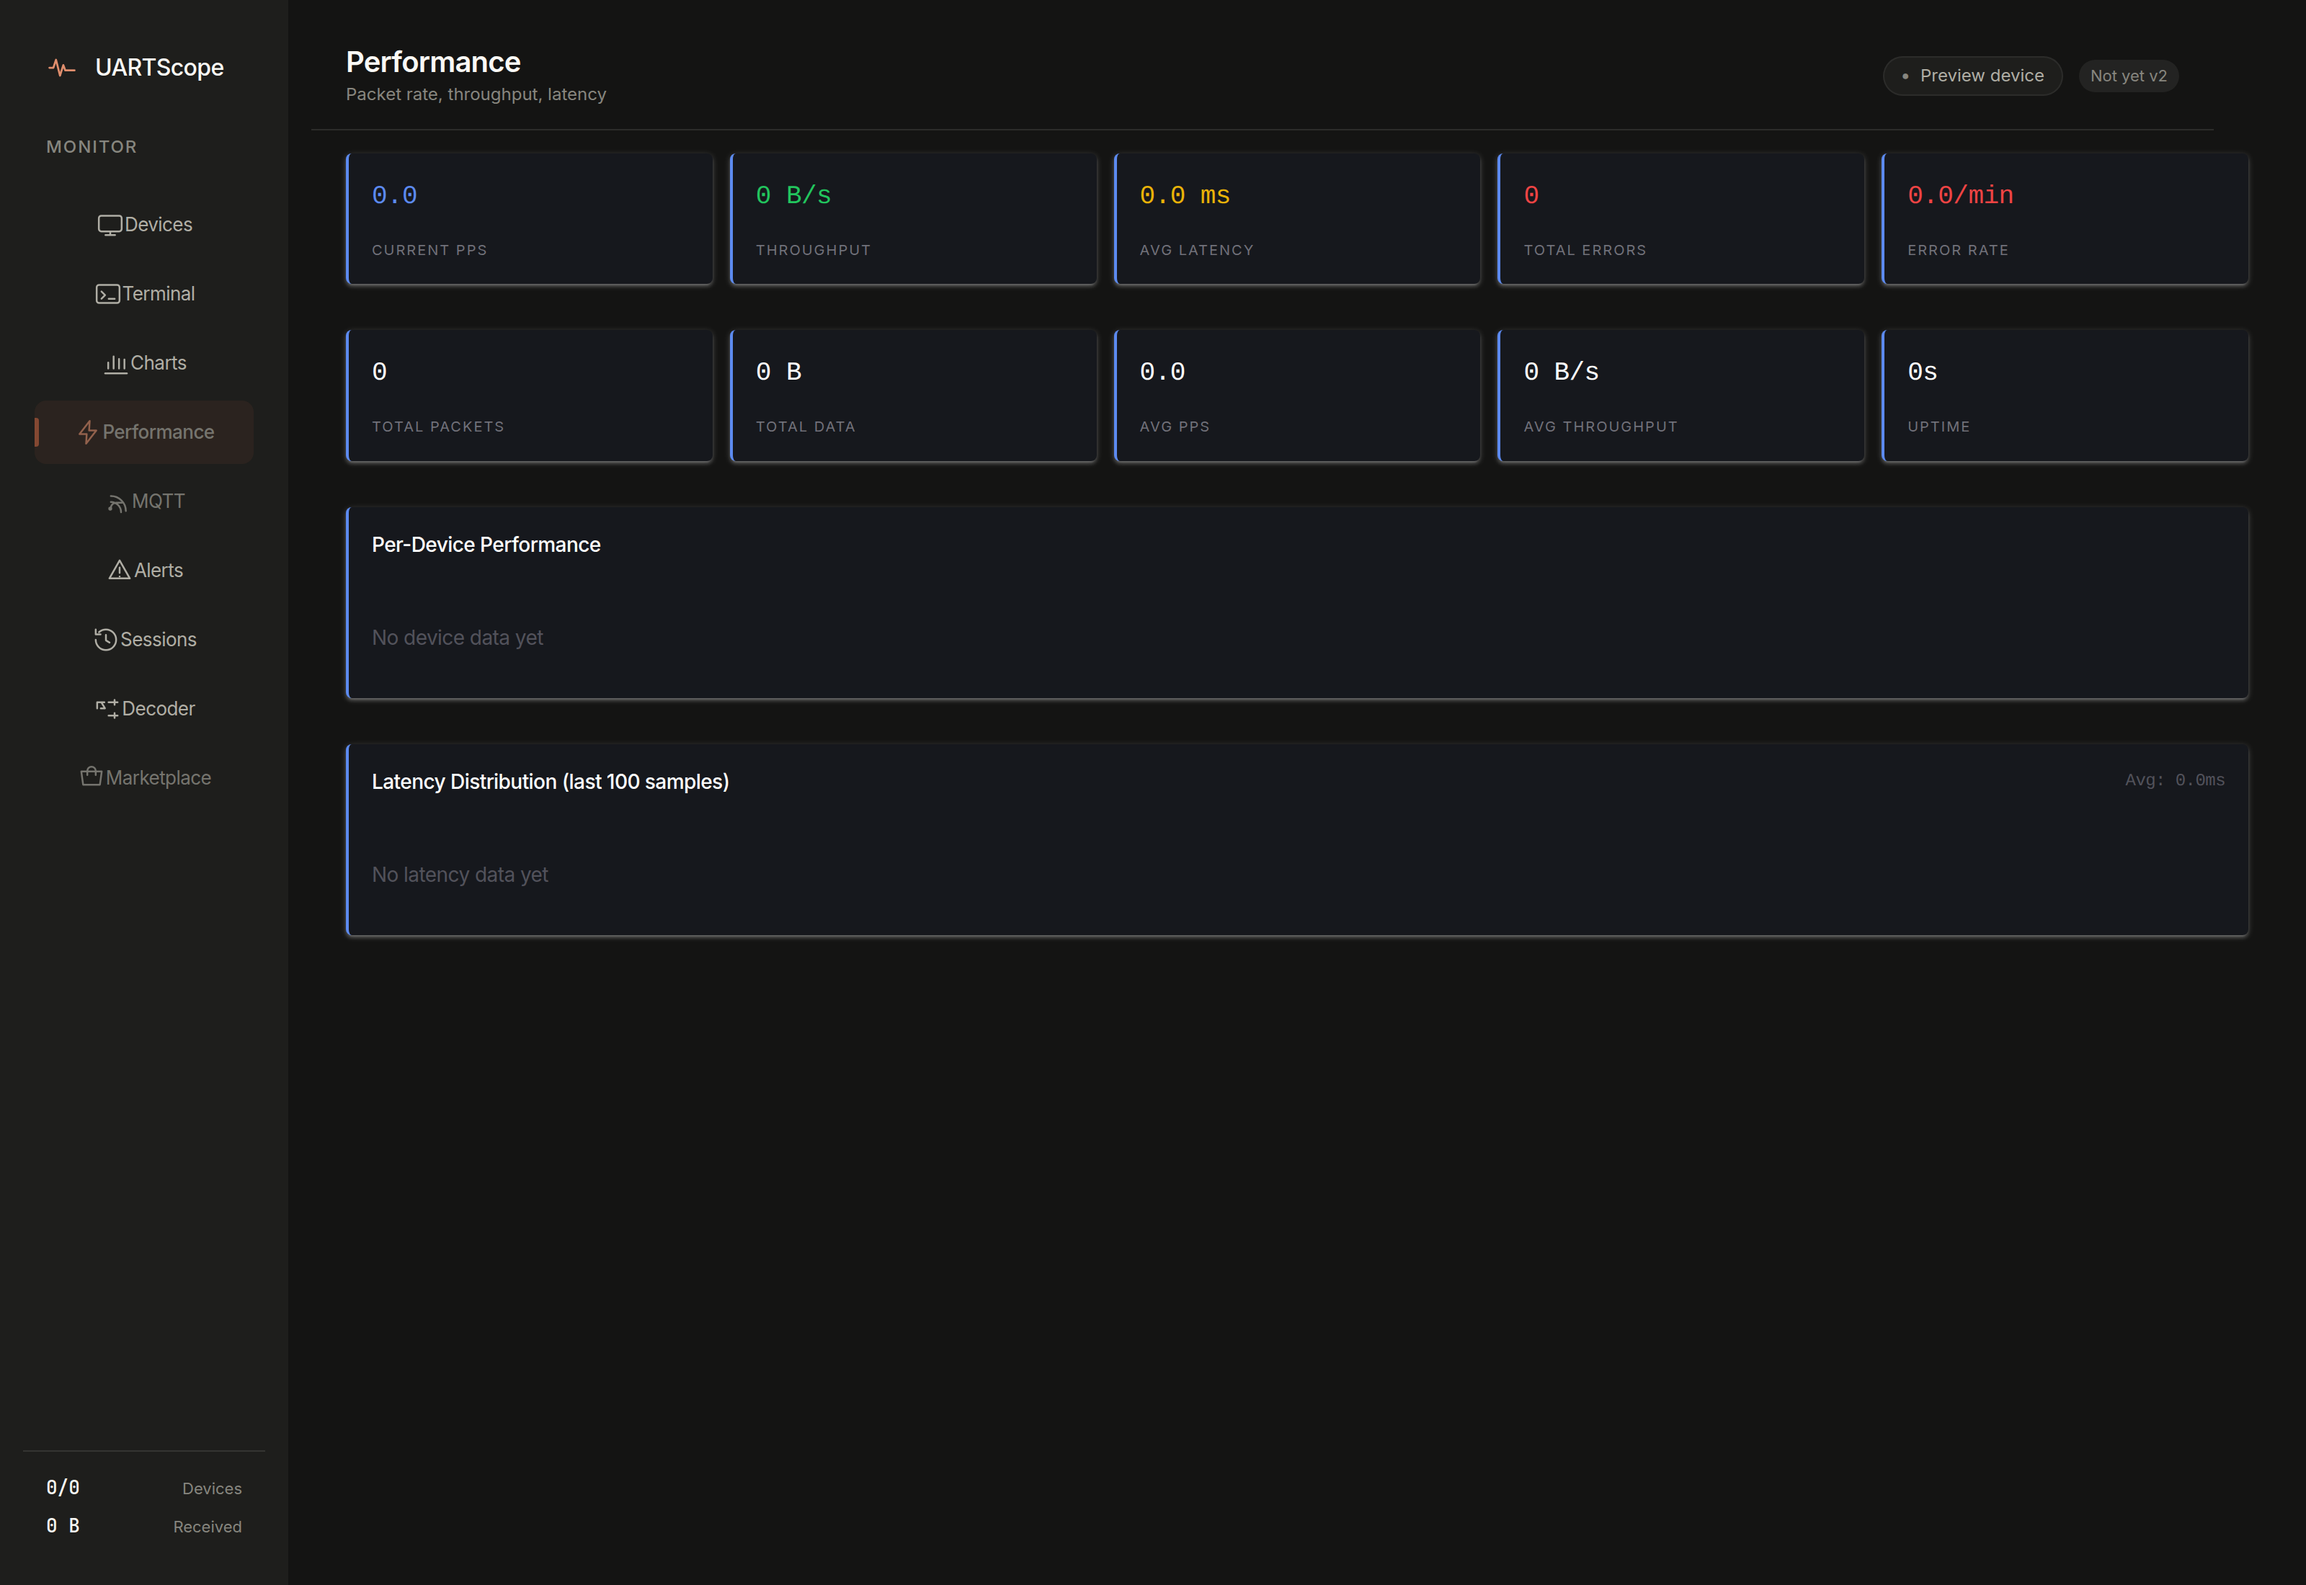
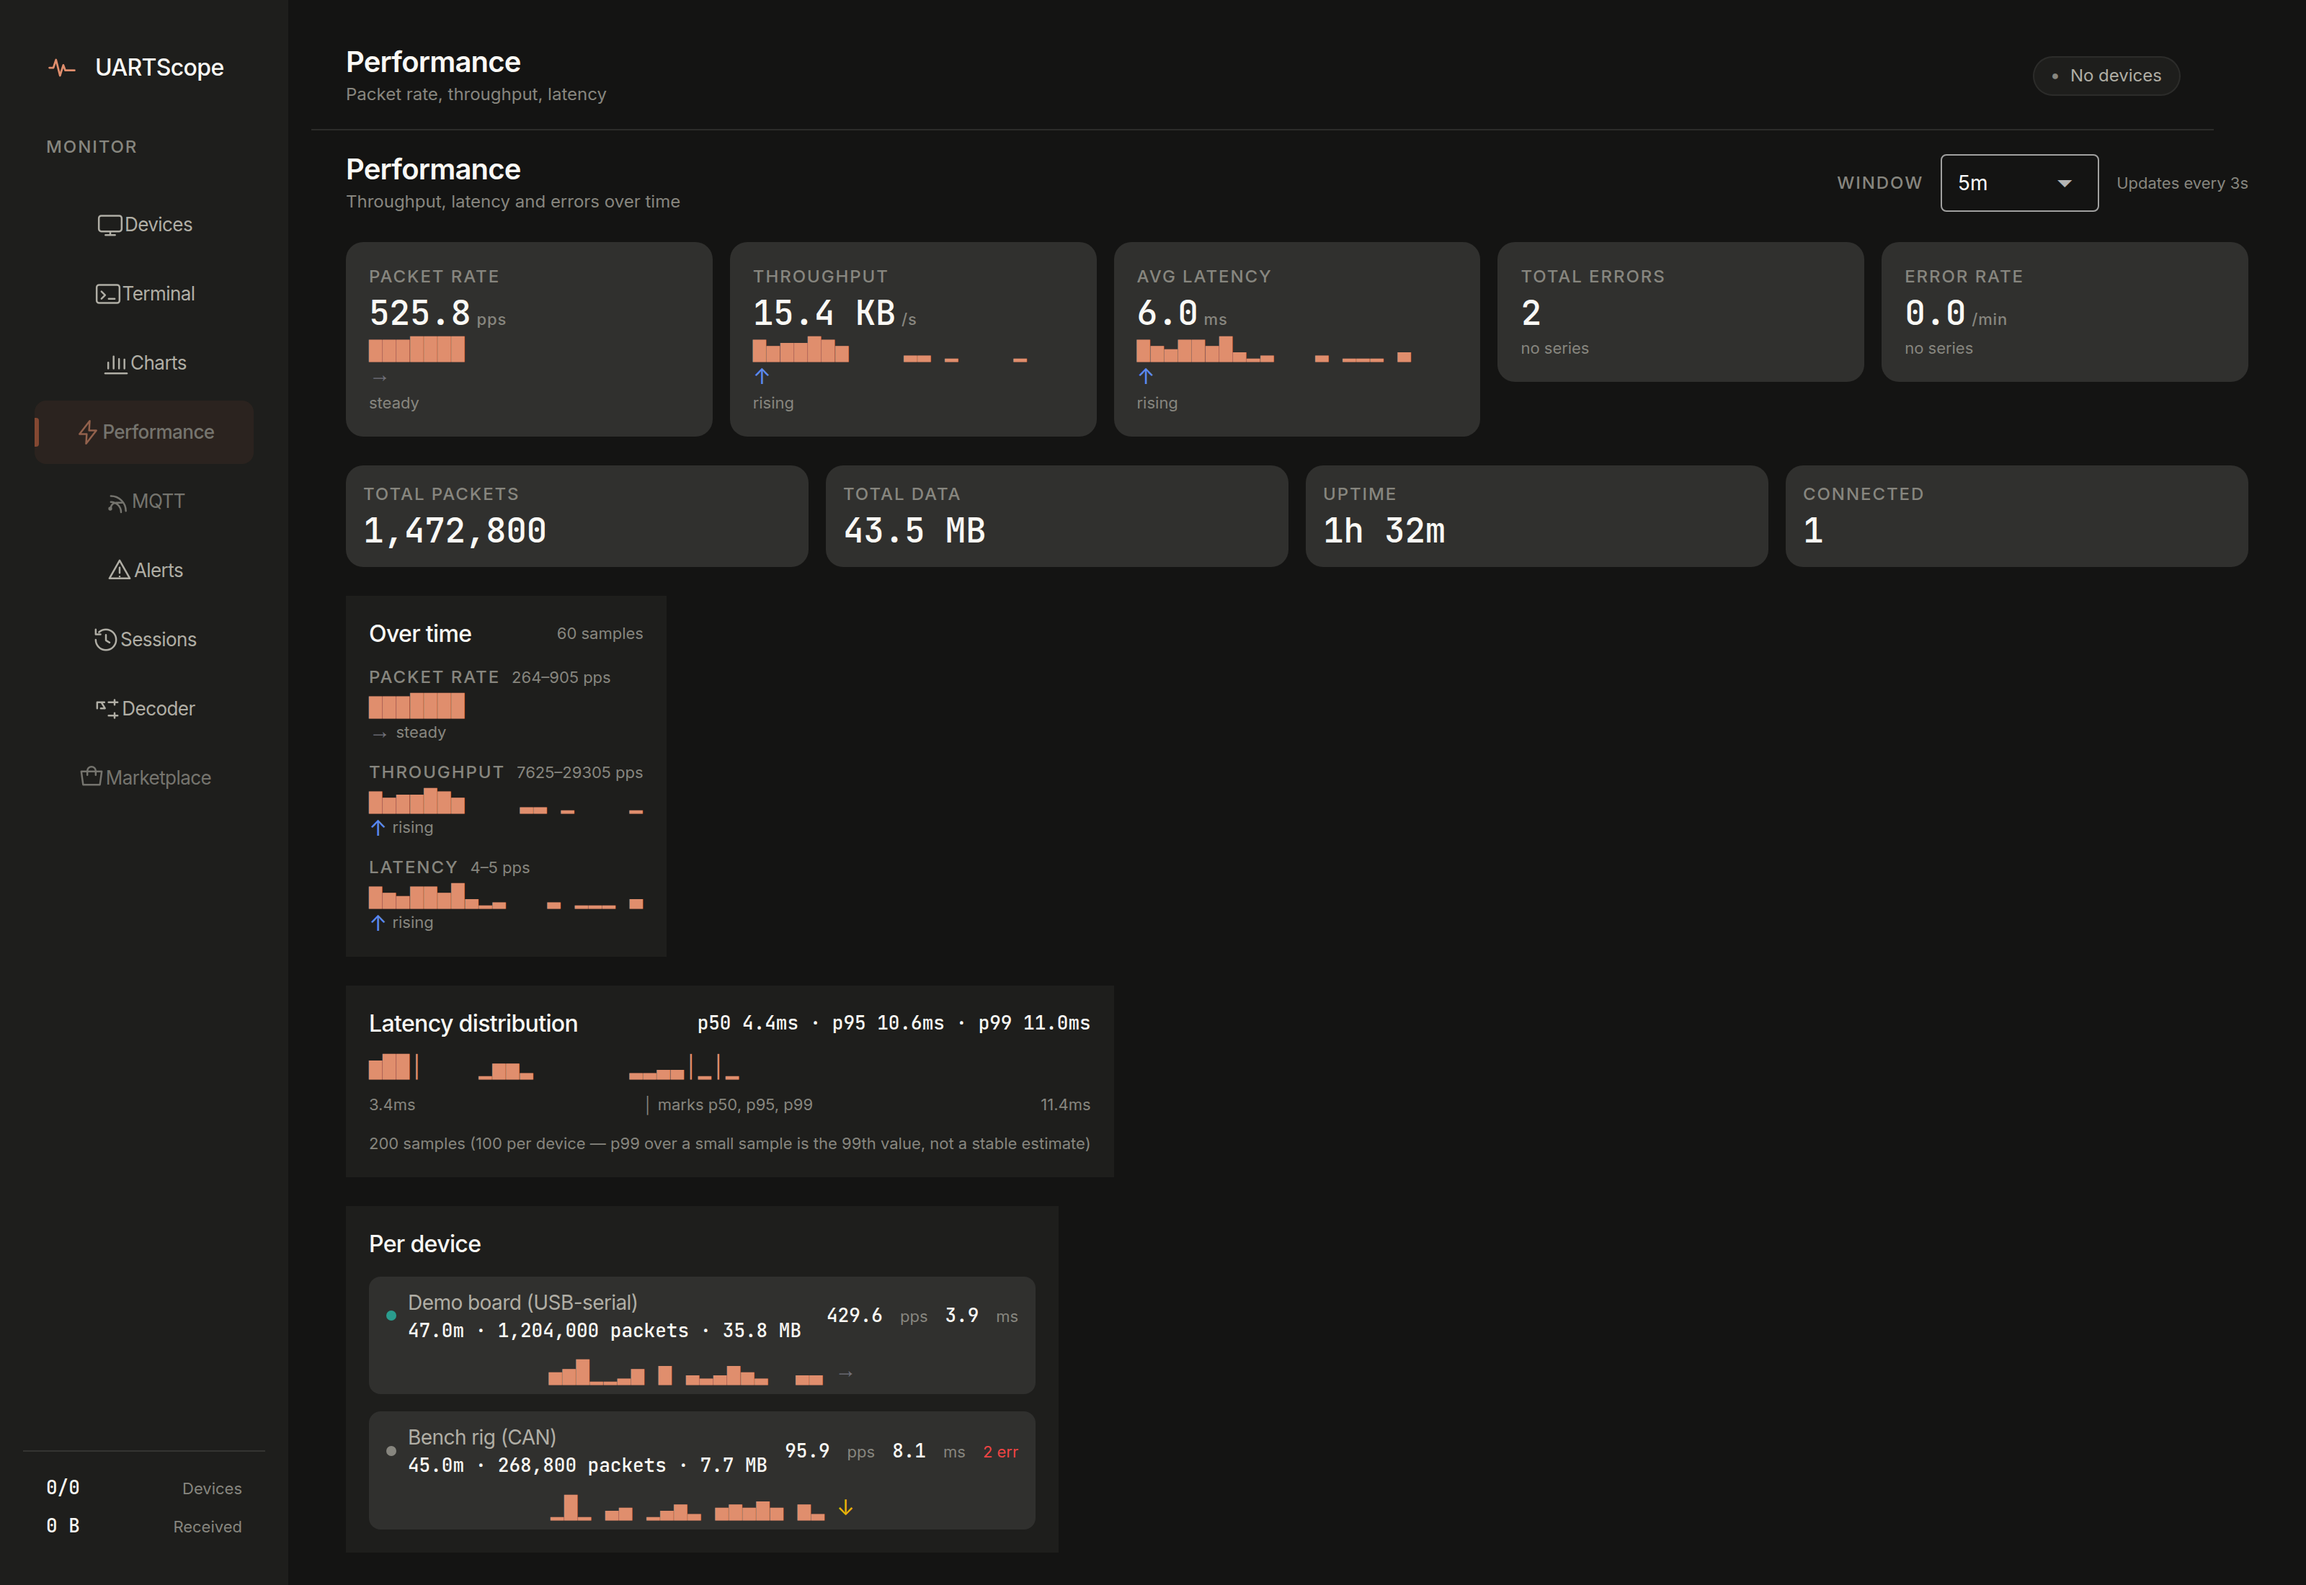
fix(perf): seed device perf and latency too, not just global history
The first screenshot pass showed every stat tile reading zero and both the
latency histogram and the per-device section empty, on a screen that
otherwise looked finished. Cause: the tiles, the histogram and the per-device
rows all read the tracker's _device_perf, while the seeder only wrote
_global_history. The "Over time" charts were the one section fed by history,
so they were populated -- which is what made the page look like a partially
built screen rather than a missing seed.

The seeder now also populates two devices, each with the tracker's own
100-sample latency cap, a 10s rate window, and a distinct shape: the primary
board is clean, the bench rig runs hot with a slow tail and carries the errors.
That makes p95/p99 actually separate the two boards instead of both reading
the same, and gives per-device comparison something to compare.

current_packet_rate and current_throughput are read-only properties derived
from the window counters, so the seed sets those rather than assigning to the
properties.

Screenshots re-shot at 3200x2200 from /smoke/<tab>?with_device=true, which
renders server-side, so no clicking is needed and the Performance path seeds
its own data. Both reviewed: 525.8 pps, 15.4 KB/s, p50/p95/p99 present, both
devices listed, no "Not yet v2" pill.

diff --git a/desktop_app.py b/desktop_app.py
@@ -4,6 +4,7 @@ import json
 import logging
 import os
 import sys
+import time
 from pathlib import Path
 import types
 import uuid
@@ -3939,6 +3940,8 @@ def _seed_demo_performance():
     """
     import random
 
+    from app.core.performance_tracker import performance_tracker as _tracker
+
     rng = random.Random(20260929)
     base_pps, base_latency = 480.0, 4.2
     history = []
@@ -3960,7 +3963,56 @@ def _seed_demo_performance():
             "current_throughput": round(max(pps, 0.0) * rng.uniform(28, 34), 2),
             "avg_latency_ms": round(max(latency, 0.1), 2),
         })
-    performance_tracker._global_history = history
+    _tracker._global_history = history
+
+    # The tiles, the latency histogram and the per-device section all read
+    # _device_perf, not the global history. Seeding only the history left every
+    # one of them showing zero or "no data", which made the first screenshot
+    # look like a half-built screen.
+    #
+    # Two devices with a real shape each: the primary board carries the
+    # latency spike seen in the history above, the second is quieter and
+    # accumulates the errors, so per-device comparison has something to
+    # compare. Latency is capped at 100 samples because that is the tracker's
+    # own cap, so the histogram and the p99 caption describe real data.
+    now = datetime.now()
+    for dev_id, name, pps, latency_base, errors, drop_at in [
+        ('demo-device', 'Demo board (USB-serial)', 430.0, 3.9, 0, None),
+        ('demo-device-2', 'Bench rig (CAN)', 96.0, 6.4, 2, 0.55),
+    ]:
+        perf = _tracker._device_perf.get(dev_id)
+        if perf is None:
+            from app.core.performance_tracker import DevicePerformance
+            perf = DevicePerformance(device_id=dev_id, device_name=name)
+            _tracker._device_perf[dev_id] = perf
+        perf.device_name = name
+        perf.connected_at = now - timedelta(minutes=47)
+        perf.disconnected_at = (
+            (now - timedelta(minutes=2)) if drop_at else None)
+        perf.total_packets = int(pps * 2800)
+        perf.total_bytes = int(pps * 2800 * rng.uniform(26, 32))
+        perf.error_count = errors
+        perf.checksum_errors = 1 if errors else 0
+        # current_packet_rate and current_throughput are read-only properties
+        # derived from the window counters over elapsed time, so they are set
+        # by seeding those counters -- assigning to the properties raises.
+        # A 10s window is what the tracker uses in production, so the seeded
+        # counters are pps * 10 and the elapsed time is a real 10s.
+        perf._window_start = time.time() - 10.0
+        perf._window_packets = int(pps * 10)
+        perf._window_bytes = int(pps * 10 * rng.uniform(26, 32))
+
+        # 100 latency samples, matching the tracker's cap. The second device
+        # runs hot and gets a tail of slow samples, so p95/p99 separate the
+        # two boards rather than both reading the same.
+        latencies = []
+        for k in range(100):
+            value = latency_base + rng.uniform(-0.5, 0.5)
+            if drop_at and k / 100.0 > drop_at:
+                value += 3.2 + rng.uniform(0, 1.4)
+            latencies.append(round(max(value, 0.2), 2))
+        perf.latencies = latencies
+
 
 
 @ui.page('/smoke/{tab}')
